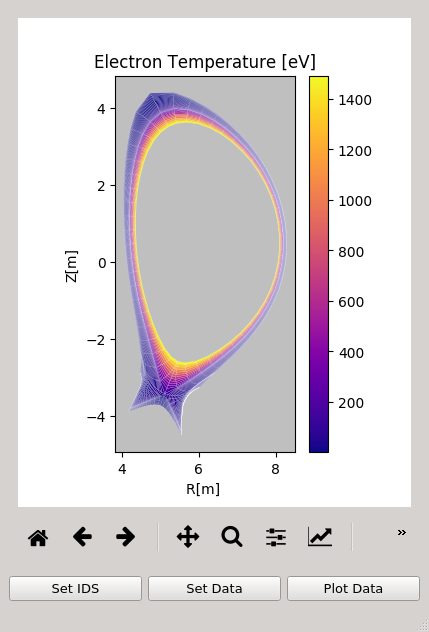
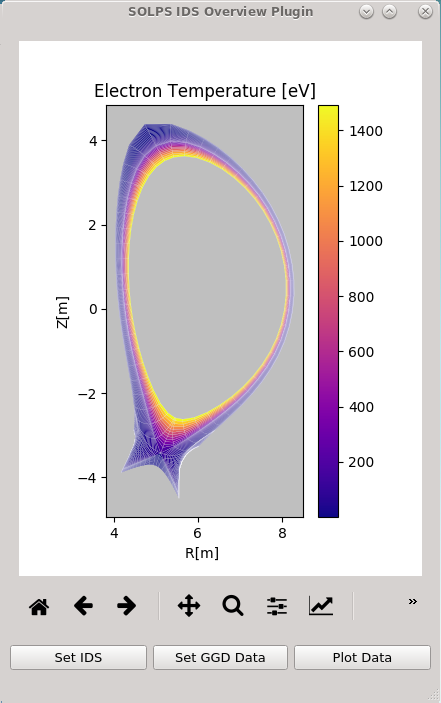
Minor improvements through naming the main plugin widget as 'mainPluginWidget'. Recreate and relabel .ui file. Minor documentation edit (updated images).

Changed region(s): [[0.0, 0.0902, 1.0, 1.0], [0.0303, 0.0, 1.0, 0.0601]]

diff --git a/imasviz/VizPlugins/viz_solps/SOLPSwidget.py b/imasviz/VizPlugins/viz_solps/SOLPSwidget.py
@@ -97,7 +97,9 @@ class SOLPSwidget(QWidget):
         self.ids.edge_profiles.get()
 
     @pyqtSlot()
-    def setGGD(self):
+    def setGGDdata(self):
+        """Show dialog for setting GGD parameters.
+        """
         if self.ids == None:
             logging.warning('No IDS yet provided.')
             return False
@@ -246,7 +248,7 @@ if __name__ == '__main__':
         plotWidget = SOLPSwidget()
 
     plotWidget.setEPIDS()
-    plotWidget.setGGD()
+    plotWidget.setGGDdata()
 
     plotWidget.plotData()
 

diff --git a/imasviz/VizGUI/VizGUICommands/VizMenusManagement/QVizPluginsHandler.py b/imasviz/VizGUI/VizGUICommands/VizMenusManagement/QVizPluginsHandler.py
@@ -112,7 +112,7 @@ class QVizPluginsHandler:
                 self.dataTreeView.log.info('Running plugin through instance of '
                                            'the user interface (.ui) file.')
                 # Find the main Qt designer widget (by widget object name)
-                qdw = pluginsObject.findChild(QWidget, 'SOLPSwidget')
+                qdw = pluginsObject.findChild(QWidget, 'mainPluginWidget')
 
                 # Get IDS object from IMASViz DTV
                 # - Get data source

diff --git a/imasviz/VizPlugins/VizPlugins.py b/imasviz/VizPlugins/VizPlugins.py
@@ -9,7 +9,7 @@ from PyQt5.QtWidgets import QMainWindow
 
 RegisteredPlugins = {'equilibriumcharts':'viz_equi.equilibriumcharts',
                      'SOLPS_UiPlugin': {
-                         'UiFile': 'designer_SOLPSPlugin.ui',
+                         'UiFile': 'SOLPSplugin.ui',
                          'dir': os.environ['VIZ_HOME'] +
                                 '/imasviz/VizPlugins/viz_solps/',
                          'targetIDSroot' : 'edge_profiles',
